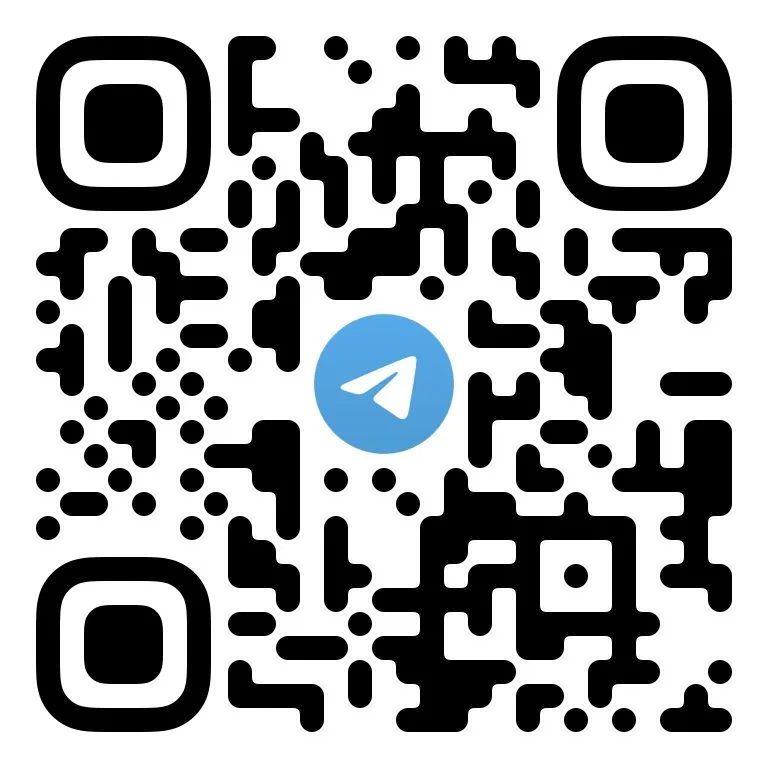
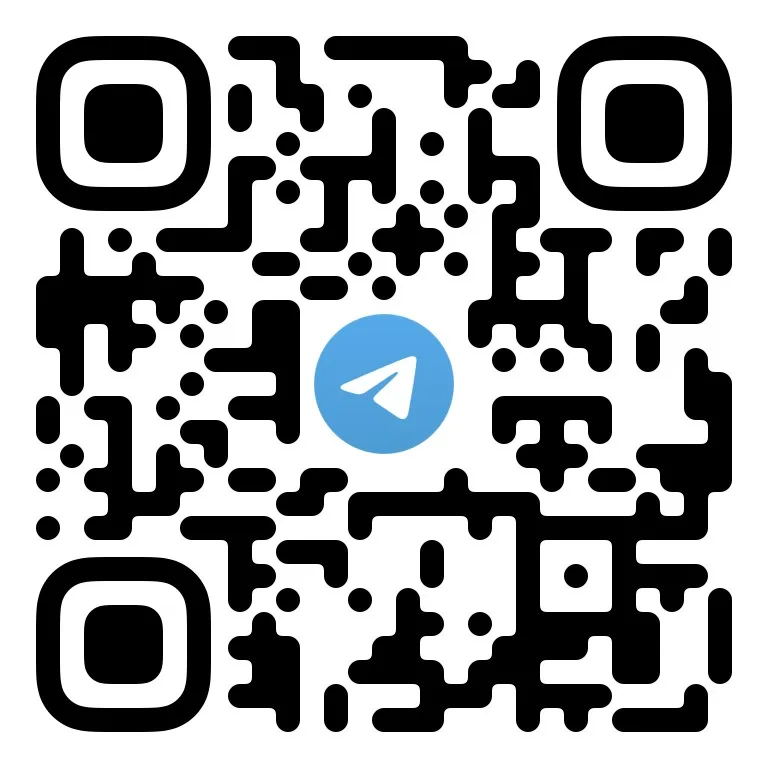
update telegram

Changed region(s): [[0.0312, 0.0312, 0.9688, 0.9688], [0.9062, 0.9062, 0.9688, 0.9688], [0.8125, 0.9062, 0.875, 0.9688]]

diff --git a/index.html b/index.html
@@ -368,7 +368,7 @@
           <img src="images/qr-telegram.webp" class="w-36 h-36 rounded-2xl object-cover" alt="Telegram 群二维码" loading="lazy">
           <div class="text-center">
             <div class="font-semibold text-white">Telegram</div>
-            <a href="https://t.me/+dkE_aGD-qP8zYzk1" target="_blank" rel="noopener noreferrer" class="text-sm text-blue-400 hover:text-blue-300 transition-colors">点击加入 →</a>
+            <a href="https://t.me/+YsZcpuE2zjw1OTll" target="_blank" rel="noopener noreferrer" class="text-sm text-blue-400 hover:text-blue-300 transition-colors">点击加入 →</a>
           </div>
         </div>
         <div class="flex flex-col items-center gap-3">
